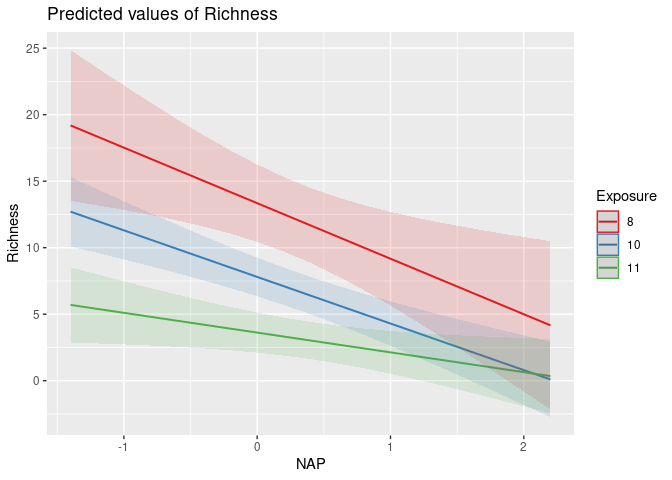
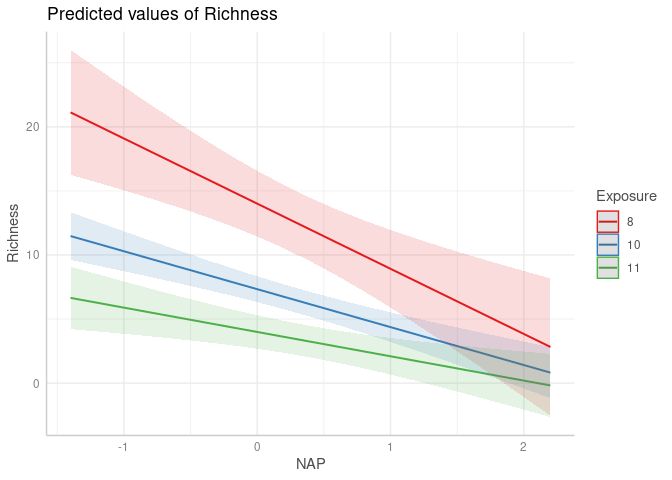
updated markdown and added small change

diff --git a/mixed_effects_models.md b/mixed_effects_models.md
@@ -39,7 +39,7 @@ library(car) # for qqPlot function
 library(emmeans) # copute contrats for multilevel factors
 library(ggeffects) # produce nice marginal plots
 library(sjPlot) # help with visualisations
-library(glmmTMB) # required by sjPlot
+# library(glmmTMB) # required by sjPlot, but takes long time to install (skipped here)
 
 # AED is the package accompanying the Book from Zuur et al.
 # install.packages("remotes")
@@ -126,8 +126,8 @@ anova(fm1, type = "marginal")
 
     ## Marginal Analysis of Variance Table with Satterthwaite's method
     ##      Sum Sq Mean Sq NumDF  DenDF  F value Pr(>F)    
-    ## Days 161219  161219     1 159.08 166.7581 <2e-16 ***
-    ## geno    818     409     2 161.92   0.4229 0.6558    
+    ## Days 162397  162397     1 159.02 167.3343 <2e-16 ***
+    ## geno    350     175     2 160.53   0.1801 0.8353    
     ## ---
     ## Signif. codes:  0 '***' 0.001 '**' 0.01 '*' 0.05 '.' 0.1 ' ' 1
 
@@ -409,10 +409,9 @@ sjPlot::plot_model(Mlme1, type = "diag") # (1) QQplot (2) similar to QQPlot (3) 
 ``` r
 # Plotting the random effects (only works for models from the lme4 package)
 # Do the residuals within random effect levels have the same variance and mean == 0?
-sjPlot::plot_model(Mlme1_lme4, type = "re")
+# sjPlot::plot_model(Mlme1_lme4, type = "re")
+# please not that for the above plot, the package glmmTMB needs to be installed
 ```
-
-![](mixed_effects_models_files/figure-gfm/unnamed-chunk-14-6.png)<!-- -->
 
 <!-- ## TODO CLEAN Error term assumptions -->
 <!-- check constant variance (homoscedasicity) and mean = 0 across groups (across groups within the random effects) -->
@@ -530,6 +529,9 @@ which machine differs from which machine?
 ``` r
 library(nlme)
 library(emmeans)
+library(ggplot2)
+library(ggeffects)
+
 data("Machines") # from the nlme package
 machines.lme.1 <- lme(score ~ Machine, random = ~ 1 | Worker, data = Machines)
 emmeans(machines.lme.1, pairwise ~ Machine, adjust="bonferroni")
@@ -554,7 +556,6 @@ emmeans(machines.lme.1, pairwise ~ Machine, adjust="bonferroni")
     ## P value adjustment: bonferroni method for 3 tests
 
 ``` r
-library(ggeffects)
 ggpredict(machines.lme.1, c("Machine")) |> plot()
 ```
 
@@ -562,9 +563,11 @@ ggpredict(machines.lme.1, c("Machine")) |> plot()
 
 # Plotting
 
-ggeffects package :
+ggeffects package: …will add text…
 
-From R buddy : **Abiel** *: was investigating the use of the ggeffects
+## Note on different packages
+
+A colleague in our lab was investigating the use of the ggeffects
 package for visualisation of mixed model results. He spent quite some
 time investigating this, and therefore wanted to share with us, as many
 of us are using mixed effects models. While the effects package does
@@ -574,22 +577,88 @@ thought-through/ designed as the ggplots. Alternatively, there was the
 remef package, which was not on CRAN. There is a new package, ggeffects,
 which can visualise the effects package predictions in a ggplot. But
 there are 3 different functions in this package for visualisation, which
-differ in the handling of factors : ◦ ggpredict() uses analogous theory
-to the predict() function in base R. For predictions, it uses the first
-level of each factor. ◦ ggemmeans() uses analogous theory to the emmeans
-package, and takes average of factor levels ◦ ggeffects() uses analogous
-theory to the effects package and takes weighted averages of the factor
-levels. Abiel’s choice is the ggeffects package, as it relies on the
+differ in the handling of factors :
+
+- ggpredict() uses analogous theory to the predict() function in base R.
+  For predictions, it uses the **first level of each factor**.
+- ggemmeans() uses analogous theory to the emmeans package, and takes
+  average of factor levels
+- ggeffects() uses analogous theory to the effects package and takes
+  weighted averages of the factor levels.
+
+Our colleague’s choice is the `ggeffects` package, as it relies on the
 effect package philosophy which seems a good choice to him, and is what
-we currently understand best. We were all very happy about this
-informations, and thought about writing them up in an Rmarkdown to share
-with others. If we want, we can take this to the next session.*
+we currently understand best.
+
+## Plotting results with ggeffects
 
 ``` r
 ggpredict(machines.lme.1, c("Machine")) |> plot()
 ```
 
 ![](mixed_effects_models_files/figure-gfm/unnamed-chunk-17-1.png)<!-- -->
+
+``` r
+# adding data points
+ggpredict(machines.lme.1, c("Machine")) |> plot(add.data = T)
+```
+
+![](mixed_effects_models_files/figure-gfm/unnamed-chunk-17-2.png)<!-- -->
+
+``` r
+# alternative way to code : 
+me.plotmachines1 <- ggpredict(machines.lme.1, c("Machine"))
+plot(me.plotmachines1)
+```
+
+![](mixed_effects_models_files/figure-gfm/unnamed-chunk-17-3.png)<!-- -->
+
+``` r
+# adding data points
+plot(me.plotmachines1, add.data = T)
+```
+
+![](mixed_effects_models_files/figure-gfm/unnamed-chunk-17-4.png)<!-- -->
+
+### note on marginal effects
+
+The type argument in the ggpredict() function of the ggeffects package
+determines whether the plotted marginal effects are fixed or random
+effects.
+
+When type = “fixed”, the marginal effects are calculated using the
+average values of all the random effects in the model, “excluding the
+additional variance caused by the random effect”. This means that the
+marginal effects represent the average effect of the predictor variable
+on the response variable, while holding all other variables constant at
+their mean values. In other words, the marginal effects reflect the
+effect of the predictor variable on the response variable in the
+population, assuming that all other variables are held constant at their
+mean values.
+
+On the other hand, when type = “random”, the marginal effects are
+calculated using the individual values of the random effects in the
+model. This means that the marginal effects represent the effect of the
+predictor variable on the response variable for each individual or
+subgroup in the data, taking into account the individual differences in
+the random effects. This can be useful when investigating the extent to
+which the effect of the predictor variable varies across different
+subgroups or individual cases in the data.
+
+Plotting more than one effect
+
+``` r
+Mlme2 <- lme(Richness ~ NAP * Exposure, random = ~ 1 | Beach, data = RIKZ)
+ggpredict(Mlme2, c("NAP", "Exposure")) |> plot()
+```
+
+![](mixed_effects_models_files/figure-gfm/unnamed-chunk-18-1.png)<!-- -->
+
+``` r
+ggpredict(Mlme2, c("NAP", "Exposure")) |> plot(add.data = T)
+```
+
+![](mixed_effects_models_files/figure-gfm/unnamed-chunk-18-2.png)<!-- -->
 
 With the `sjPlot` package, interactions can be plotted easily as well:
 
@@ -638,11 +707,11 @@ summary(Mlme2)
 sjPlot::plot_model(Mlme2, type = "pred", terms = c("NAP", "Exposure"))
 ```
 
-![](mixed_effects_models_files/figure-gfm/unnamed-chunk-18-1.png)<!-- -->
+![](mixed_effects_models_files/figure-gfm/unnamed-chunk-19-1.png)<!-- -->
 
 ``` r
 # plot all interactions with type = "int"
 sjPlot::plot_model(Mlme2, type = "int", terms = c("NAP", "Exposure"))
 ```
 
-![](mixed_effects_models_files/figure-gfm/unnamed-chunk-18-2.png)<!-- -->
+![](mixed_effects_models_files/figure-gfm/unnamed-chunk-19-2.png)<!-- -->
